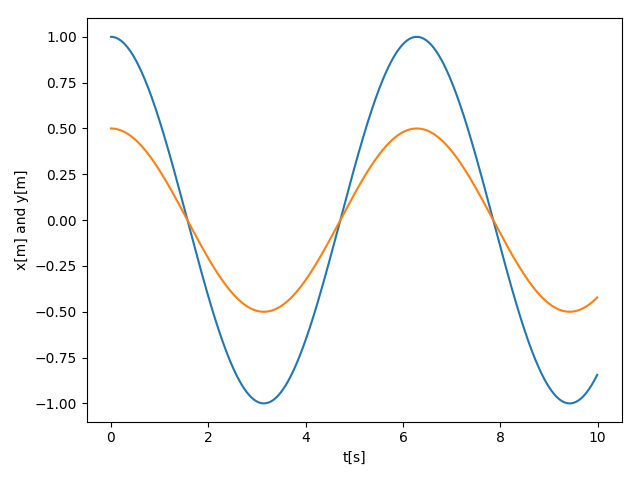
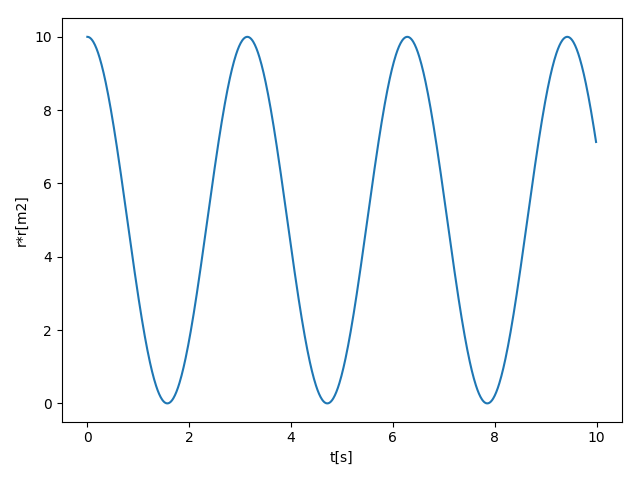
added plot

diff --git a/doc/src/Homeworks/hw7/Program/TwodimSolver.py b/doc/src/Homeworks/hw7/Program/TwodimSolver.py
@@ -36,14 +36,18 @@ n = ceil(tfinal/DeltaT)
 t = np.zeros(n)
 v = np.zeros((n,2))
 r = np.zeros((n,2))
+# Constants of the model
+k = 0.1   # spring constant
+m = 0.1   # mass, you can change these
+omega02 = sqrt(k/m)  # Frequency
+AngMom = 1.0  #  The angular momentum
+rmin = (AngMom*AngMom/k/m)**0.25
 # Initial conditions as compact 2-dimensional arrays
-r0 = np.array([1.0,0.5])  # You must change these to fit rmin
+x0 =rmin*0.5; y0 = sqrt(rmin*rmin-x0*x0)
+r0 = np.array([x0,y0])  # You must change these to fit rmin
 v0 = np.array([0.0,0.0]) # You must change these to fit rmin
 r[0] = r0
 v[0] = v0
-k = 0.1   # spring constant
-m = 0.1   # mass, you can change these
-omega02 = sqrt(k/m)
 # Start integrating using the Velocity-Verlet  method
 for i in range(n-1):
     # Set up forces, define rabs first
@@ -53,12 +57,12 @@ for i in range(n-1):
     anew = -r[i+1]*omega02  
     v[i+1] = v[i] + 0.5*DeltaT*(a+anew)
     t[i+1] = t[i] + DeltaT
-# Plot position as function of time    
+# Plot position as function of time
+radius = np.sqrt(r[:,0]**2+r[:,1]**2)
 fig, ax = plt.subplots()
 ax.set_xlabel('t[s]')
-ax.set_ylabel('x[m] and y[m]')
-ax.plot(t,r[:,0])
-ax.plot(t,r[:,1])
+ax.set_ylabel('r*r[m2]')
+ax.plot(t,r[:,0]**2+r[:,1]**2)
 fig.tight_layout()
 save_fig("2DimHOVV")
 plt.show()

diff --git a/doc/src/Homeworks/hw7/Program/vplot.py b/doc/src/Homeworks/hw7/Program/vplot.py
@@ -1,0 +1,26 @@
+# Common imports
+import numpy as np
+from math import *
+import matplotlib.pyplot as plt
+
+Deltax = 0.01
+#set up arrays
+xinitial = 1.0
+xfinal = 5.0
+k = 0.1   # spring constant
+m = 0.1   # mass, you can change these
+AngMom = 1.0  #  The angular momentum
+n = ceil((xfinal-xinitial)/Deltax)
+x = np.zeros(n)
+for i in range(n):
+    x[i] = xinitial+i*Deltax
+V = np.zeros(n)
+V = 0.5*k*x*x+0.5*AngMom*AngMom/(m*x*x)
+# Plot potential
+fig, ax = plt.subplots()
+ax.set_xlabel('r[m]')
+ax.set_ylabel('V[J]')
+ax.plot(x, V)
+fig.tight_layout()
+plt.show()
+
